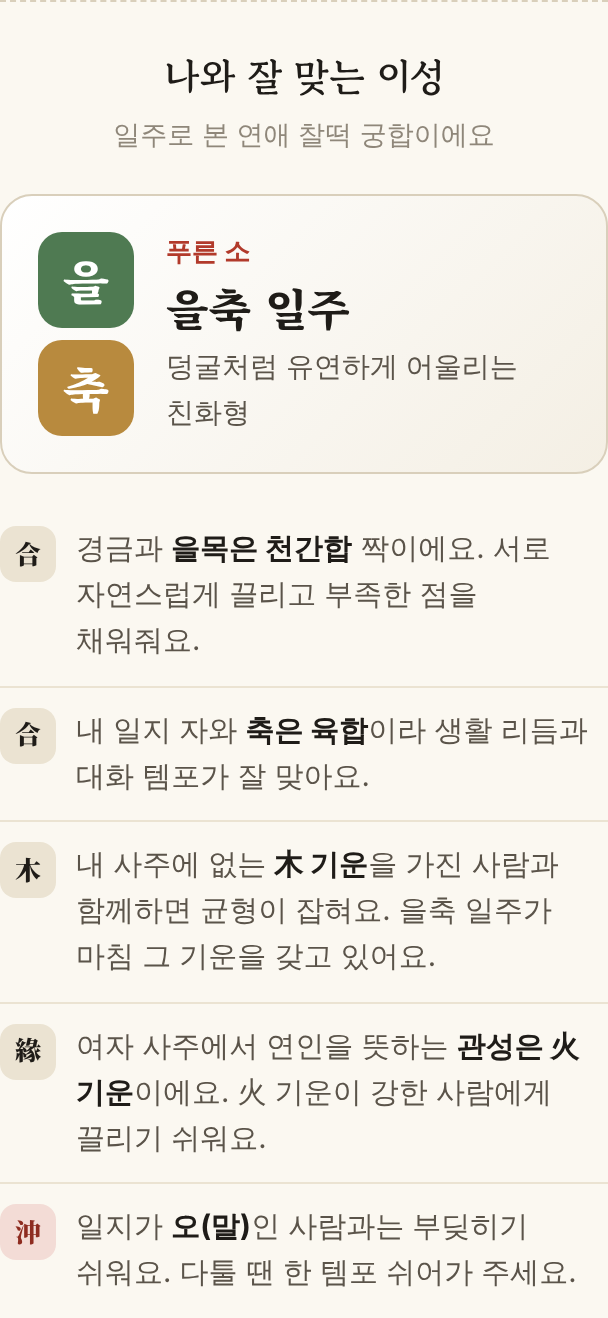
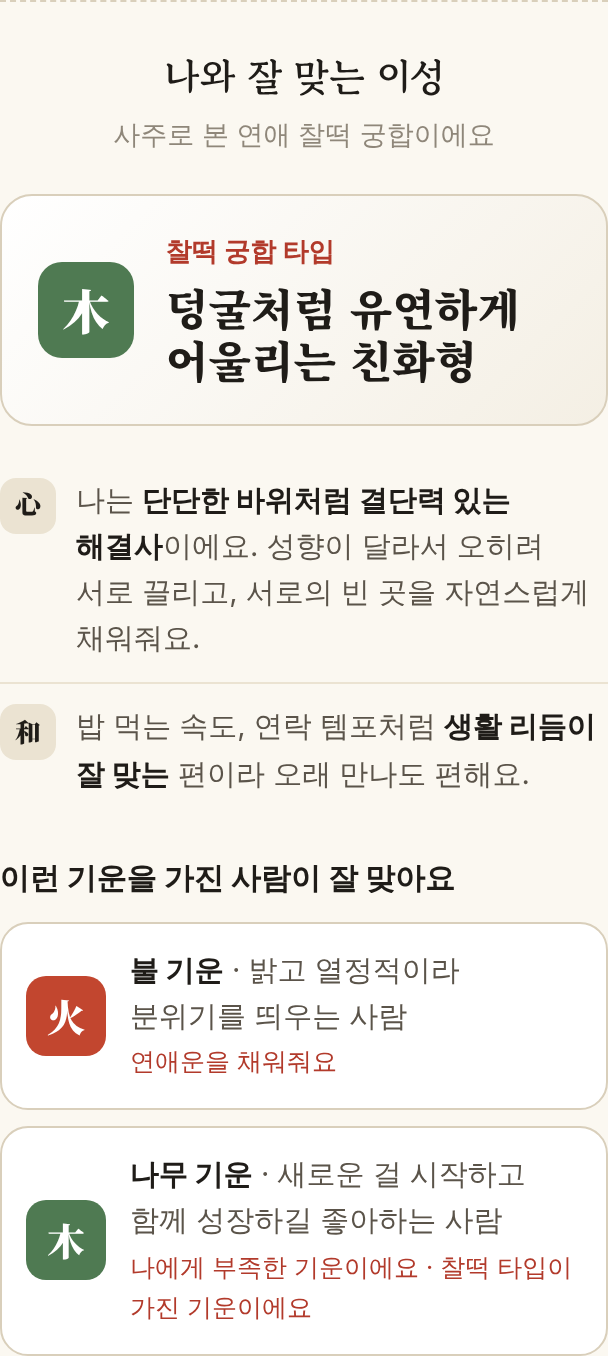
이성 궁합을 쉬운 말로 바꾸고 성별을 저장
- 전문용어 대신 잘 맞는 성향 타입과 잘 맞는 오행(나무·불·흙·쇠·물) 기운을 쉬운 설명으로 표시
- 성별을 saju_results에 저장해 밥조 편성 때 이성 궁합도 고려할 수 있게 함
- 동의 문구에 성별 수집과 용도 추가(버전 2026-10-30-v4)

Claude-Session: https://claude.ai/code/session_012bKZfKa4NxDtXrmtTF5ER5

diff --git a/public/index.html b/public/index.html
@@ -351,7 +351,20 @@
       background: var(--paper-deep); color: var(--ink);
     }
     .reasons b { color: var(--ink); }
-    .reasons li.warn .icon { background: #f3dcd6; color: var(--seal-deep); }
+    .pick-title { font-size: 15px; margin: 18px 0 10px; }
+    .picks { list-style: none; margin: 0; padding: 0; display: grid; gap: 8px; }
+    .picks li {
+      display: grid; grid-template-columns: 40px 1fr; gap: 12px; align-items: center;
+      padding: 12px; border-radius: 14px; background: #fff; border: 1px solid var(--line);
+      font-size: 14.5px; color: var(--ink-soft);
+    }
+    .picks .char {
+      width: 40px; height: 40px; border-radius: 10px;
+      display: grid; place-items: center; color: #fff;
+      font-family: "Noto Serif KR", serif; font-weight: 900; font-size: 19px;
+    }
+    .picks b { color: var(--ink); }
+    .picks small { display: block; font-size: 12.5px; color: var(--seal); margin-top: 2px; }
 
     .next {
       margin-top: 24px;
@@ -409,7 +422,7 @@
       </div>
 
       <div class="field">
-        <span class="title">성별 <small>이성 궁합 계산에만 쓰고 저장하지 않아요</small></span>
+        <span class="title">성별 <small>이성 궁합과 밥조 편성에 써요</small></span>
         <div class="segment" role="radiogroup" aria-label="성별">
           <input type="radio" name="gender" id="gender-female" value="female"><label for="gender-female">여자</label>
           <input type="radio" name="gender" id="gender-male" value="male"><label for="gender-male">남자</label>
@@ -432,7 +445,7 @@
       <div class="consent">
         <strong>개인정보 수집·이용 안내</strong>
         <ul>
-          <li>이름, 양력 생년월일, 태어난 시각(선택)을 사주 계산과 밥조 편성에만 써요. 성별은 이성 궁합 계산에만 쓰고 저장하지 않아요.</li>
+          <li>이름, 양력 생년월일, 태어난 시각(선택)을 사주 계산과 밥조 편성에만 써요. 성별은 이성 궁합과 밥조 편성에 써요.</li>
           <li>AI(Claude)에는 무작위 번호와 사주 결과만 보내고, 이름과 생년월일은 보내지 않아요.</li>
           <li>운영자만 볼 수 있고, 원본 생년월일은 편성 직후, 나머지는 프로젝트가 끝나면 삭제해요.</li>
         </ul>
@@ -481,52 +494,53 @@
       임: '넓은 바다처럼 시야가 넓은 자유로운 영혼', 계: '봄비처럼 조용히 스며드는 공감 능력자',
     };
 
-    const STEM_COLOR = { 목: '푸른', 화: '붉은', 토: '누런', 금: '하얀', 수: '검은' };
-    const ANIMAL = { 자: '쥐', 축: '소', 인: '호랑이', 묘: '토끼', 진: '용', 사: '뱀', 오: '말', 미: '양', 신: '원숭이', 유: '닭', 술: '개', 해: '돼지' };
-    // 받침 유무로 조사를 고른다. 예: josa('경', '과', '와') → '경과'
-    const josa = (word, withBatchim, without) => {
-      const code = word.charCodeAt(word.length - 1) - 0xac00;
-      return word + (code >= 0 && code % 28 ? withBatchim : without);
+    const ELEMENT_PERSON = {
+      목: ['나무', '새로운 걸 시작하고 함께 성장하길 좋아하는 사람'],
+      화: ['불', '밝고 열정적이라 분위기를 띄우는 사람'],
+      토: ['흙', '듬직하고 사람을 잘 챙기는 사람'],
+      금: ['쇠', '똑부러지고 맺고 끊음이 확실한 사람'],
+      수: ['물', '차분하고 생각이 깊은 사람'],
     };
 
     function renderMatch(data) {
       const m = data.match;
       if (!m) return;
-      const myStem = data.pillars.day[0];
-      const myBranch = data.pillars.day[1];
-      const myEl = data.dayMasterElement;
-      const lackingText = m.lacking.map((e) => HANJA[e]).join('·');
-      const fills = [m.stemElement, m.branchElement].filter((e) => m.lacking.includes(e));
-      const reasons = [
-        ['合', `${josa(myStem + myEl, '과', '와')} <b>${josa(m.stem + m.stemElement, '은', '는')} 천간합</b> 짝이에요. 서로 자연스럽게 끌리고 부족한 점을 채워줘요.`],
-        ['合', `내 일지 ${josa(myBranch, '과', '와')} <b>${josa(m.branch, '은', '는')} 육합</b>이라 생활 리듬과 대화 템포가 잘 맞아요.`],
-        [HANJA[m.lacking[0]], m.lackingCount === 0
-          ? `내 사주에 없는 <b>${lackingText} 기운</b>을 가진 사람과 함께하면 균형이 잡혀요.${fills.length ? ` ${m.pillar} 일주가 마침 그 기운을 갖고 있어요.` : ''}`
-          : `내게 적은 <b>${lackingText} 기운</b>이 강한 사람과 함께하면 균형이 잡혀요.${fills.length ? ` ${m.pillar} 일주가 마침 그 기운을 갖고 있어요.` : ''}`],
-      ];
-      if (m.spouse) {
-        const sp = m.spouse;
-        reasons.push(['緣', `${data.gender === 'male' ? '남자' : '여자'} 사주에서 연인을 뜻하는 <b>${sp.star}은 ${HANJA[sp.element]} 기운</b>이에요.${sp.matchHas ? ` ${m.pillar} 일주가 바로 이 기운이라 연애 궁합으로 특히 좋아요.` : ` ${HANJA[sp.element]} 기운이 강한 사람에게 끌리기 쉬워요.`}`]);
-      }
-      const warn = `일지가 <b>${m.clashBranch}(${ANIMAL[m.clashBranch]})</b>인 사람과는 부딪히기 쉬워요. 다툴 땐 한 템포 쉬어가 주세요.`;
+      const myType = DAY_MASTER_TEXT[data.dayMaster];
+      const last = myType.charCodeAt(myType.length - 1) - 0xac00;
+      const ending = last % 28 ? '이에요' : '예요';
+      const theirType = DAY_MASTER_TEXT[m.stem];
+
+      // 잘 맞는 기운: 연인 기운 → 내게 부족한 기운 → 찰떡 타입의 기운 순으로, 중복 없이
+      const picks = [];
+      const add = (el, why) => {
+        const found = picks.find((p) => p.el === el);
+        if (found) found.why.push(why); else picks.push({ el, why: [why] });
+      };
+      if (m.spouse) add(m.spouse.element, '연애운을 채워줘요');
+      m.lacking.forEach((el) => add(el, '나에게 부족한 기운이에요'));
+      add(m.stemElement, '찰떡 타입이 가진 기운이에요');
 
       document.getElementById('match').innerHTML = `
         <h3>나와 잘 맞는 이성</h3>
-        <p class="sub">일주로 본 연애 찰떡 궁합이에요</p>
+        <p class="sub">사주로 본 연애 찰떡 궁합이에요</p>
         <div class="match-hero">
-          <div class="chars">
-            <span class="char" style="background:${COLOR[m.stemElement]}">${m.stem}</span>
-            <span class="char" style="background:${COLOR[m.branchElement]}">${m.branch}</span>
-          </div>
+          <div class="chars"><span class="char" style="background:${COLOR[m.stemElement]}">${HANJA[m.stemElement]}</span></div>
           <div>
-            <div class="nick">${STEM_COLOR[m.stemElement]} ${ANIMAL[m.branch]}</div>
-            <div class="name">${m.pillar} 일주</div>
-            <p>${DAY_MASTER_TEXT[m.stem] ?? ''}</p>
+            <div class="nick">찰떡 궁합 타입</div>
+            <div class="name">${theirType}</div>
           </div>
         </div>
         <ul class="reasons">
-          ${reasons.map(([icon, text]) => `<li><span class="icon">${icon}</span><span>${text}</span></li>`).join('')}
-          <li class="warn"><span class="icon">沖</span><span>${warn}</span></li>
+          <li><span class="icon">心</span><span>나는 <b>${myType}</b>${ending}. 성향이 달라서 오히려 서로 끌리고, 서로의 빈 곳을 자연스럽게 채워줘요.</span></li>
+          <li><span class="icon">和</span><span>밥 먹는 속도, 연락 템포처럼 <b>생활 리듬이 잘 맞는</b> 편이라 오래 만나도 편해요.</span></li>
+        </ul>
+        <h4 class="pick-title">이런 기운을 가진 사람이 잘 맞아요</h4>
+        <ul class="picks">
+          ${picks.map(({ el, why }) => `
+            <li>
+              <span class="char" style="background:${COLOR[el]}">${HANJA[el]}</span>
+              <span><b>${ELEMENT_PERSON[el][0]} 기운</b> · ${ELEMENT_PERSON[el][1]}<small>${why.join(' · ')}</small></span>
+            </li>`).join('')}
         </ul>`;
     }
 

diff --git a/api/submit.js b/api/submit.js
@@ -4,7 +4,7 @@ import { createClient } from '@supabase/supabase-js';
 import { computeSaju } from '../lib/saju.js';
 import { findIdealMatch } from '../lib/match.js';
 
-const CONSENT_VERSION = '2026-10-30-v3';
+const CONSENT_VERSION = '2026-10-30-v4';
 const LIBRARY_VERSIONS = { manseryeok: '2.0.0', 'lunar-javascript': '1.7.7' };
 
 const supabase = createClient(process.env.SUPABASE_URL, process.env.SUPABASE_SERVICE_ROLE_KEY, {
@@ -84,6 +84,7 @@ export default async function handler(req, res) {
     hour_pillar: saju.pillars.hour,
     day_master: saju.dayMaster,
     day_master_element: saju.dayMasterElement,
+    gender: input.gender,
     elements: saju.elements,
     cross_check_ok: saju.crossCheck.ok,
     cross_check_detail: saju.crossCheck,
